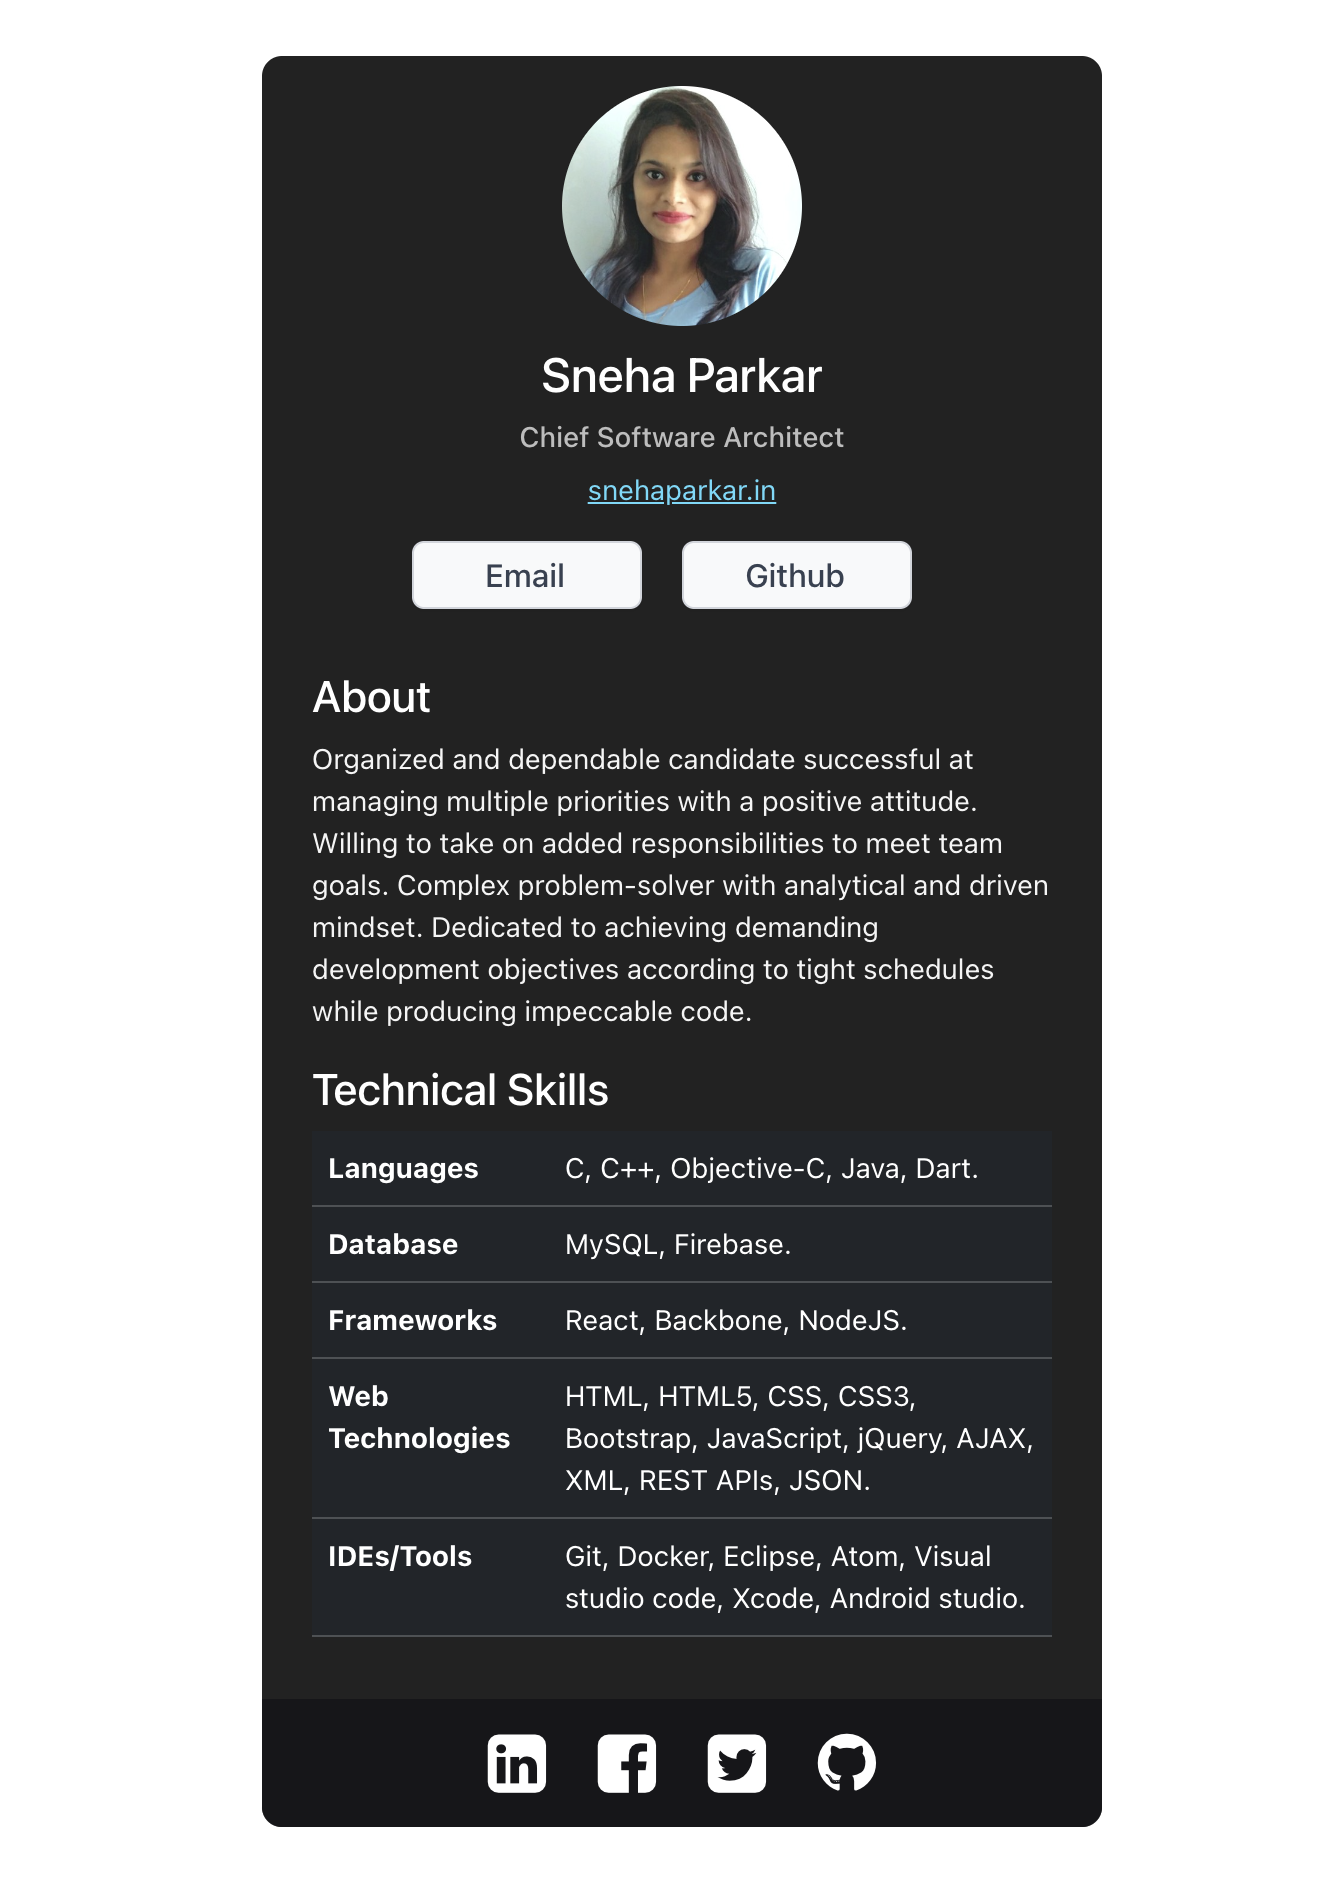
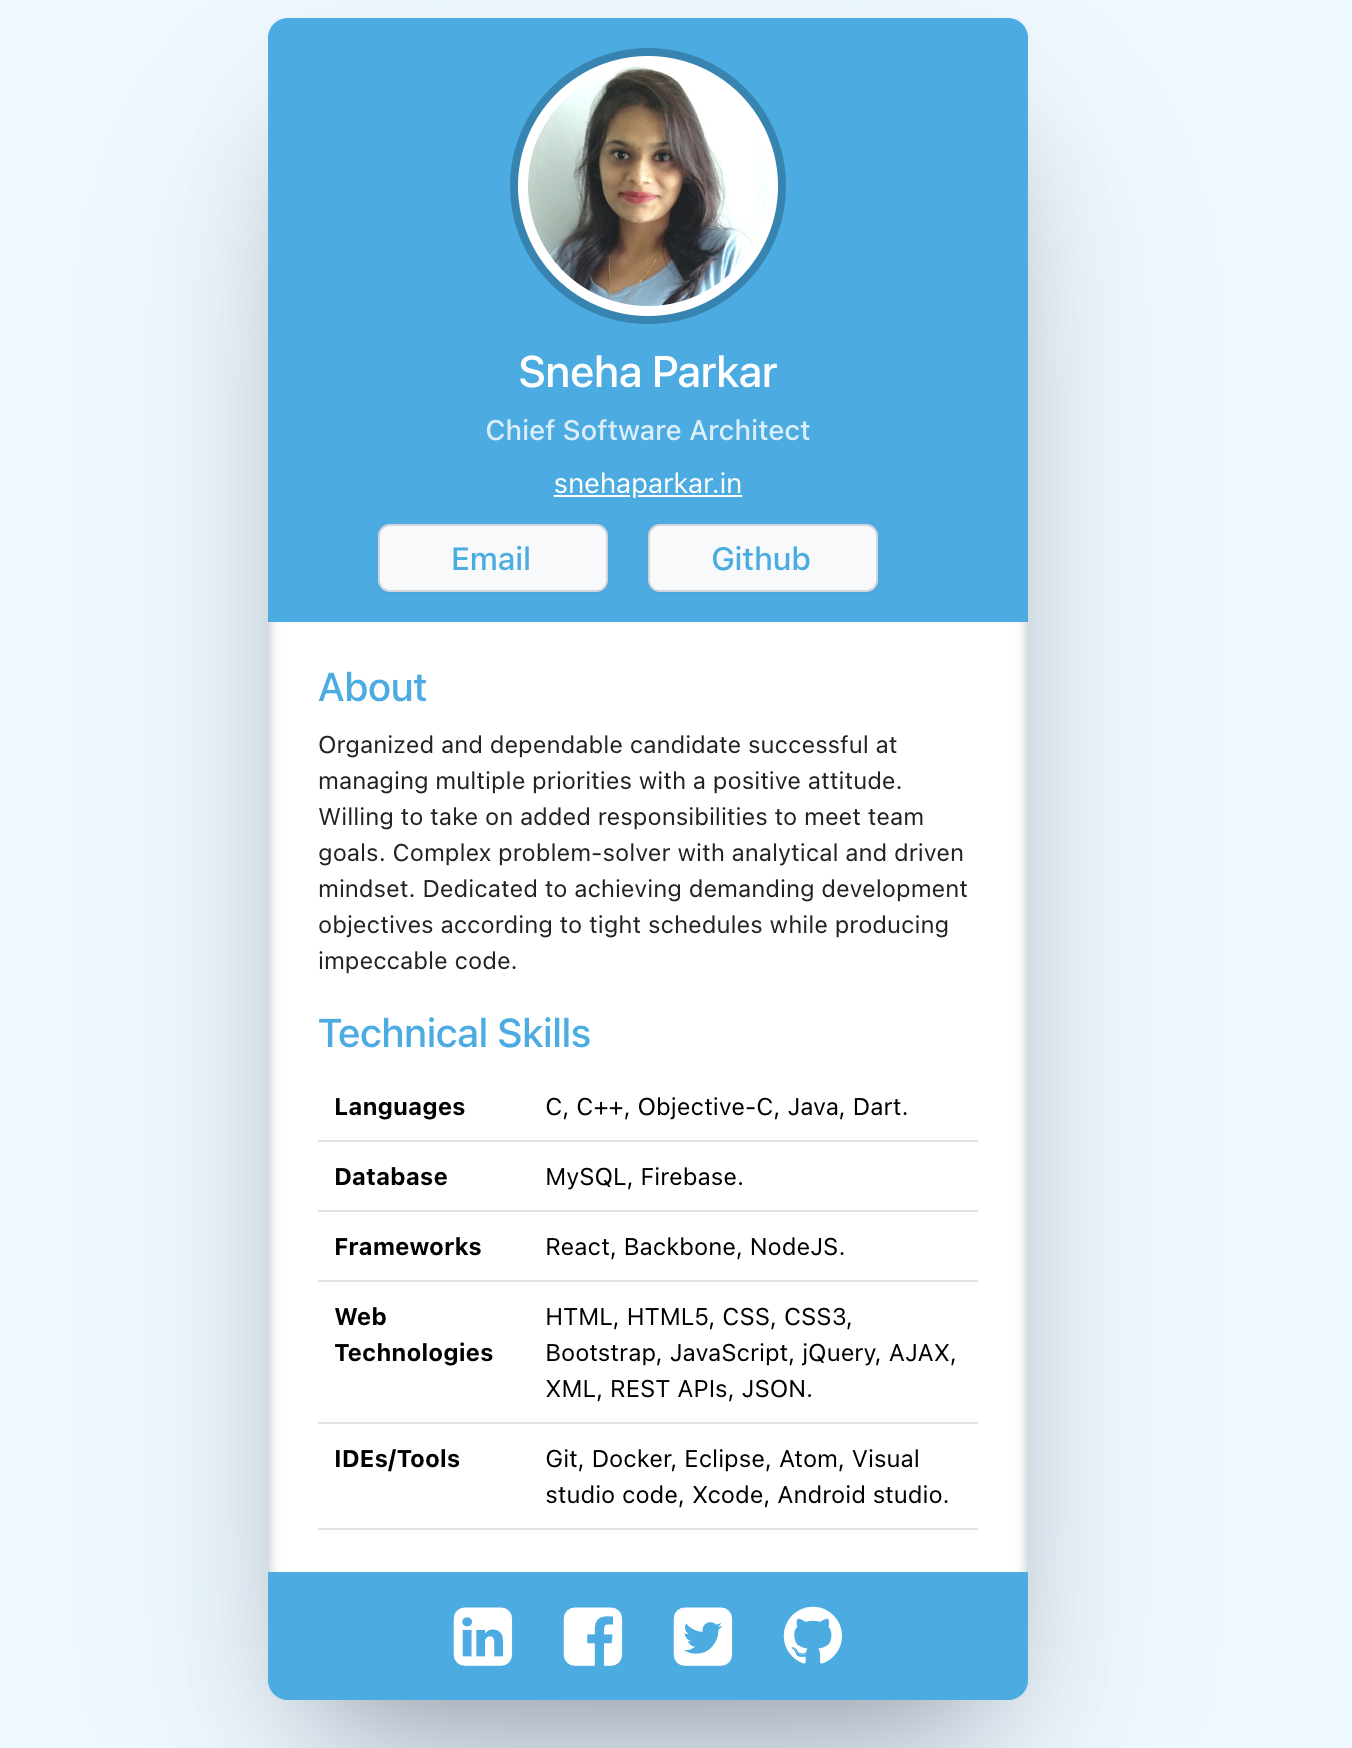
styles updated

diff --git a/src/index.css b/src/index.css
@@ -5,7 +5,8 @@ body {
     sans-serif;
   -webkit-font-smoothing: antialiased;
   -moz-osx-font-smoothing: grayscale;
-  font-size: 14px;
+  font-size: 12px;
+  background-color: #ecf8ff;
 }
 
 code {
@@ -14,41 +15,62 @@ code {
 }
 
 .App {
-  width: 420px;
+  width: 380px;
   margin: 30px auto;
-  background: #222;
-  color: #fff;
+  background: #fff;
+  color: #222;
   border-radius: 10px;
+  box-shadow: rgba(50, 50, 93, 0.25) 0px 50px 100px -20px, rgba(0, 0, 0, 0.3) 0px 30px 60px -30px, rgba(10, 37, 64, 0.35) 0px -2px 6px 0px inset;
+  /* border: 1px solid #0aade7; */
 }
 
 .link {
-  color: #61dafb;
+  color: #ffffff;
 }
 
 .navbar {}
 
 .header {
   text-align: center;
-  padding: 15px 15px;
+  padding: 15px 15px 10px;
+  border-radius: 10px 10px 0 0;
+  background-color: #0aade7;
+  color: #fff;
+  font-size: 14px;
+}
+
+.profile-pic-box {
+  border: 4px solid #0385b4;
+  background-color: #fff;
+  border-radius: 50%;
+  width: 138px;
+  height: 138px;
+  padding: 5px;
+  margin: 0 auto 10px;
+  /* box-shadow: 1px 1px 15px #eee; */
 }
 
 .profile-pic {
   border-radius: 50%;
   width: 120px;
   height: 120px;
-  margin-bottom: 10px;
+
+
 }
 
 .profile-name {
-  font-size: 24px;
+  font-size: 22px;
 }
 
 .role {
   font-size: 14px;
-  opacity: 0.7;
+  opacity: 0.8;
 }
 
-.bcard-buttons {}
+.bcard-buttons {
+  background-color: #0aade7;
+  padding-bottom: 15px;
+}
 
 .bcard-buttons button {
   box-shadow: 0px 1px 2px 0px #0000000D;
@@ -77,24 +99,25 @@ code {
 
 .bcard-buttons button span {
   line-height: 34px;
-  color: #374151;
+  color: #0aade7;
 }
 
 .body {
-  padding: 15px 25px;
+  padding: 5px 25px;
 }
 
 .title {
   margin-top: 15px;
-  font-size: 22px;
+  font-size: 20px;
+  color: #0aade7;
 }
 
 .detail {
-  color: #F5F5F5;
+  color: #222;
 }
 
 .bcard-table {
-  color: #F5F5F5;
+  color: #222;
 }
 
 .footer {
@@ -102,7 +125,7 @@ code {
   justify-content: center;
   align-items: center;
   gap: 20px;
-  background-color: #161619;
+  background-color: #0aade7;
   border-radius: 0 0 10px 10px;
   height: 64px;
 }

diff --git a/src/components/Body.js b/src/components/Body.js
@@ -7,7 +7,7 @@ export default function Body() {
 			<h3 className="title">About</h3>
 			<div className="detail">Organized and dependable candidate successful at managing multiple priorities with a positive attitude. Willing to take on added responsibilities to meet team goals. Complex problem-solver with analytical and driven mindset. Dedicated to achieving demanding development objectives according to tight schedules while producing impeccable code.</div>
 			<h3 className="title">Technical Skills</h3>
-			<table className="table table-dark bcard-table">
+			<table className="table bcard-table">
 				<tbody>
 					<tr>
 						<th>Languages</th>

diff --git a/src/components/Header.js b/src/components/Header.js
@@ -5,7 +5,9 @@ export default function Header() {
 	return (
 		<div className="">
 			<div className="header">
-				<img src={profilepic} className="profile-pic" alt="self-logo" />
+				<div className="profile-pic-box">
+					<img src={profilepic} className="profile-pic" alt="self-logo" />
+				</div>
 				<h2 className="profile-name">Sneha Parkar</h2>
 				<h4 className="role">Chief Software Architect</h4>
 				<a className="link" href="https://snehaparkar.in">snehaparkar.in</a>
